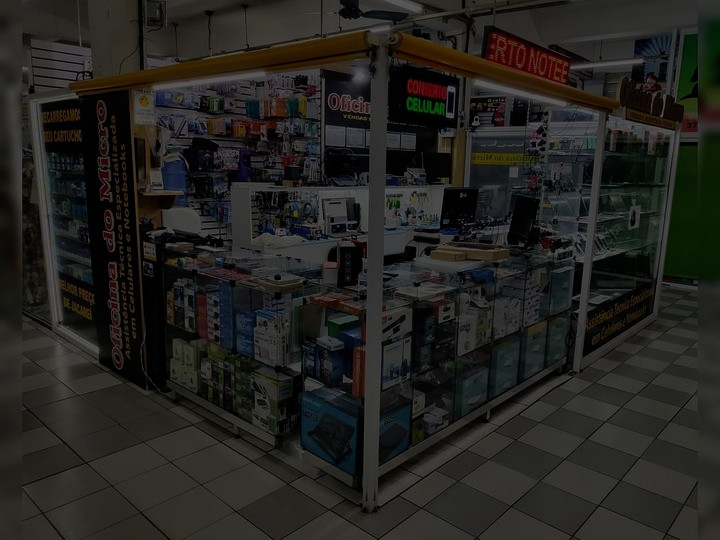
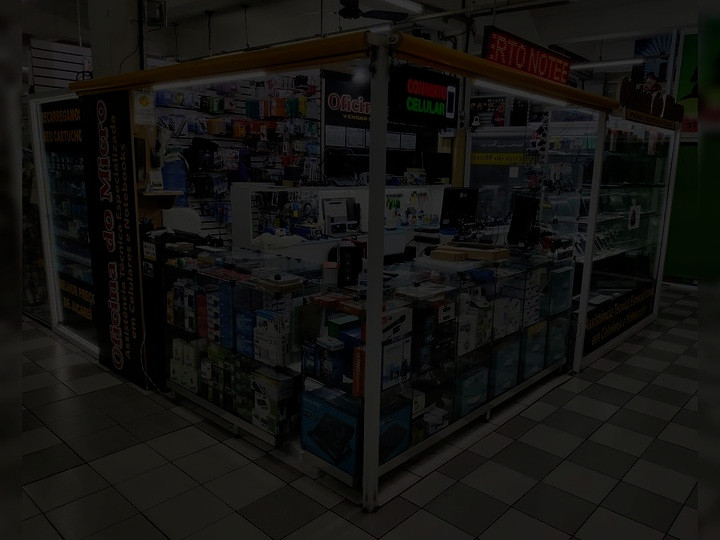
teste

diff --git a/src/App.css b/src/App.css
@@ -546,18 +546,16 @@
 }
 @media (max-width: 850px) {
   .container .sobre {
-    background-size: 264%;
-  }
-}
-@media (max-width: 600px) {
-  .container .sobre {
-    background-size: 120%;
-    background-color: black;
-    background-position-y: 0%;
+    background: #151515;
   }
 }
 .container .sobre-logo {
-  width: 20%;
+  width: 30%;
+}
+@media (max-width: 850px) {
+  .container .sobre-logo {
+    width: 50%;
+  }
 }
 .container .sobre-autoridade, .container .sobre-atendimento {
   color: #fff;

diff --git a/src/assets/components/sass/app.sass b/src/assets/components/sass/app.sass
@@ -426,15 +426,13 @@
       background-size: 150%
 
     @include mixins.tablet
-      background-size: 264%
-
-    @include mixins.smartphone
-      background-size: 120%
-      background-color: black
-      background-position-y: 0%
+      background: #151515
 
     &-logo
-      width: 20%
+      width: 30%
+
+      @include mixins.tablet
+        width: 50%
 
     &-autoridade, &-atendimento
       color: #fff

diff --git a/src/index.css b/src/index.css
@@ -15,6 +15,6 @@ main {
 .sobre {
   background-image: url(./assets/components/img/loja-oficina-do-micro.jpg);
   background-repeat: no-repeat;
-  background-size: 140%;
+  background-size: 120%;
   background-position: 30%;
 }
